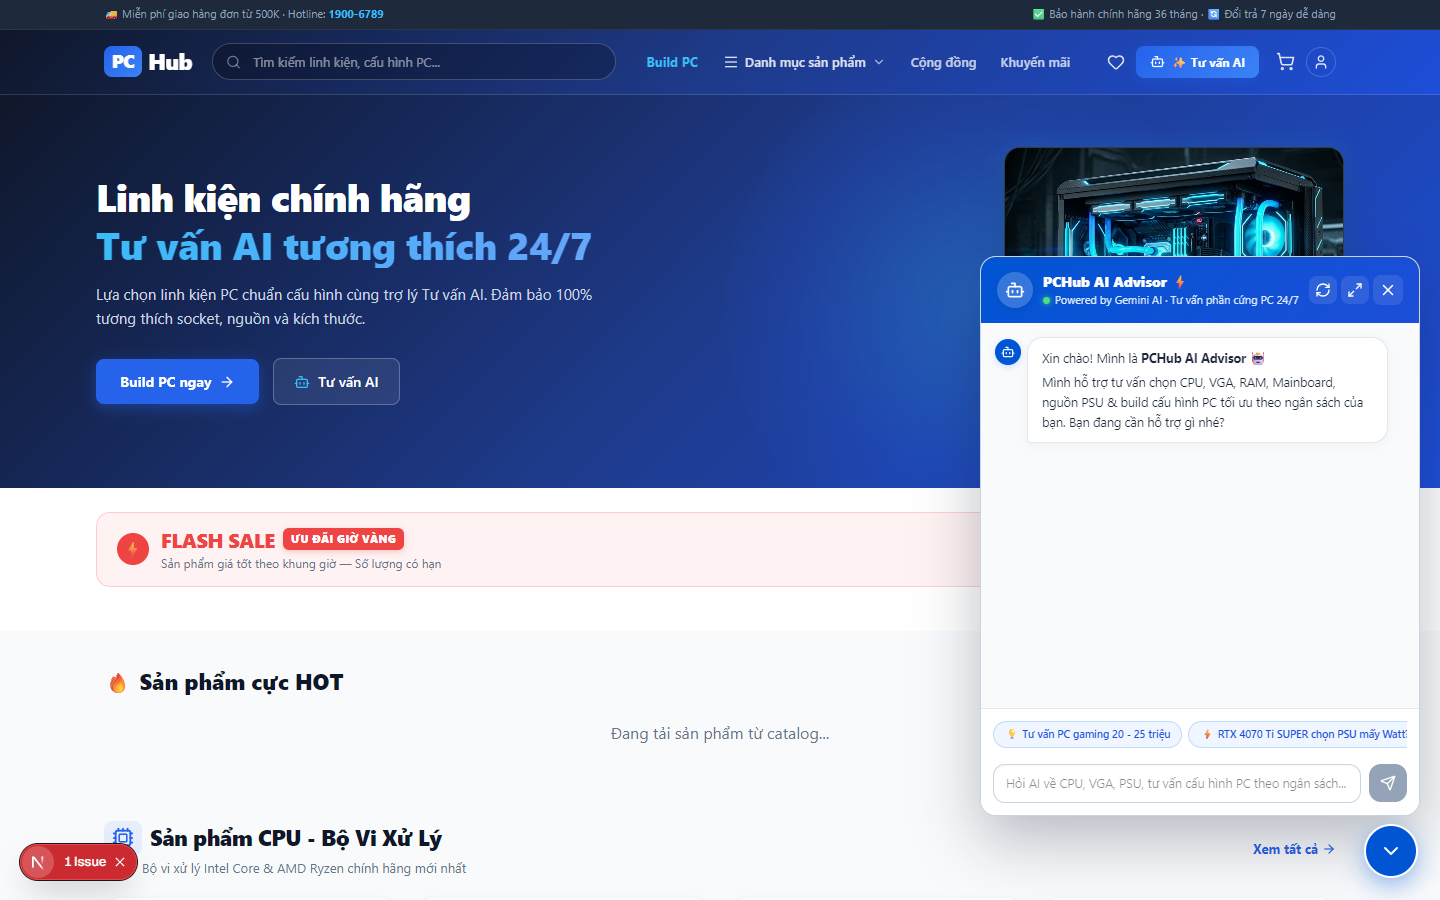
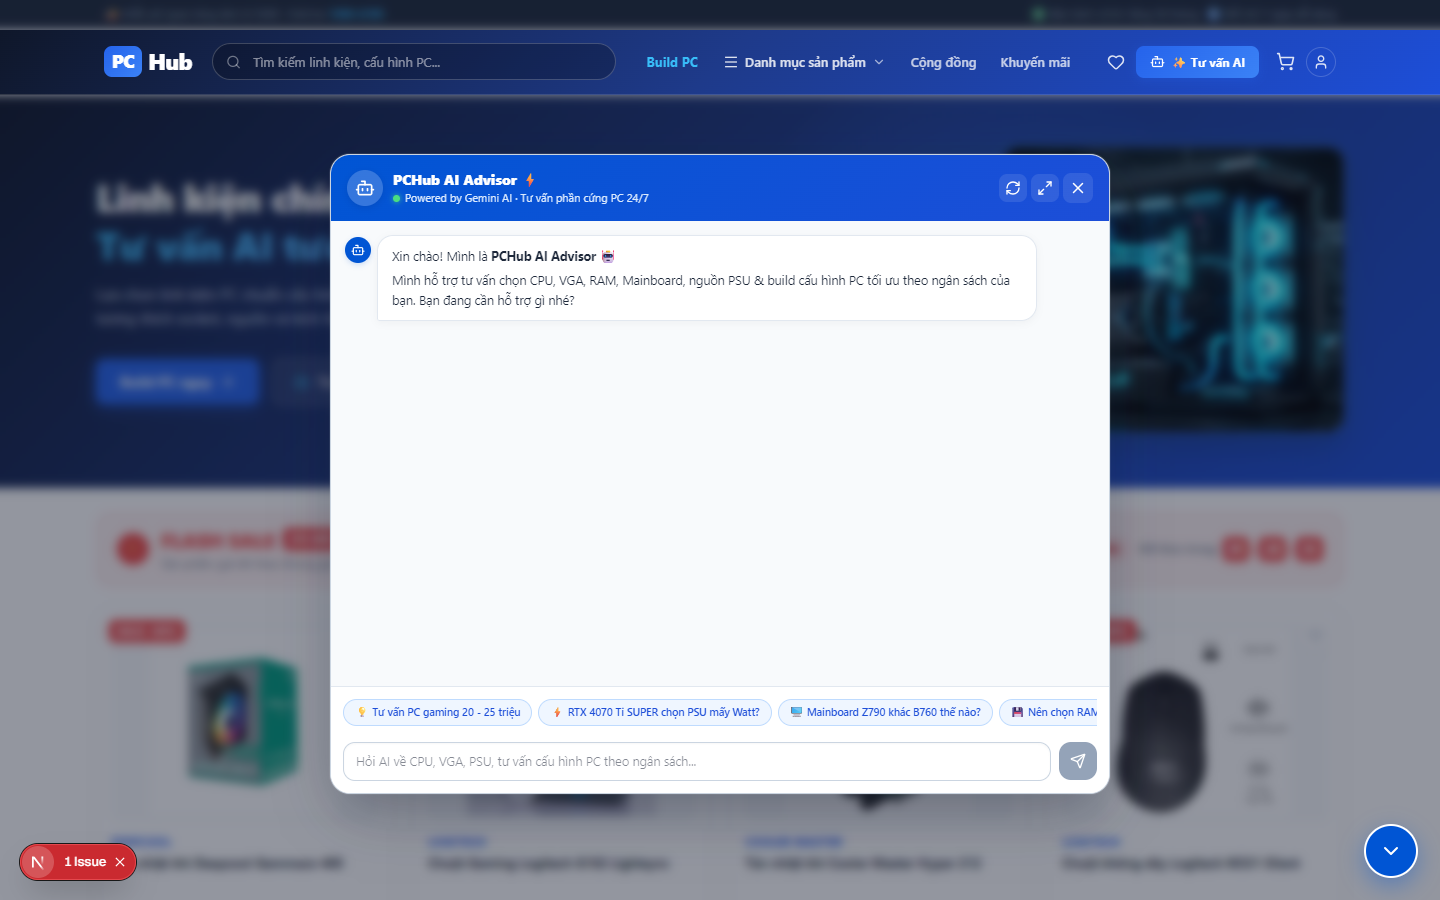
feat(chatbot): center popup modal with backdrop blur and preserve navbar visibility

diff --git a/src/components/layout/AIChatWidget.tsx b/src/components/layout/AIChatWidget.tsx
@@ -217,6 +217,11 @@ export default function AIChatWidget() {
     <>
       {open && (
         <div
+          onClick={() => {
+            if (!isFullscreen) {
+              setOpen(false);
+            }
+          }}
           style={
             isFullscreen
               ? {
@@ -227,7 +232,6 @@ export default function AIChatWidget() {
                   bottom: 0,
                   width: '100vw',
                   height: '100vh',
-                  maxHeight: '100vh',
                   zIndex: 99999,
                   background: '#f8fafc',
                   display: 'flex',
@@ -236,23 +240,47 @@ export default function AIChatWidget() {
                 }
               : {
                   position: 'fixed',
-                  right: '20px',
-                  bottom: '84px',
-                  width: 'min(440px, calc(100vw - 32px))',
-                  height: '560px',
-                  maxHeight: 'calc(100vh - 110px)',
-                  zIndex: 1000,
-                  background: '#ffffff',
-                  border: '1px solid #cbd5e1',
-                  borderRadius: '16px',
-                  overflow: 'hidden',
-                  boxShadow: '0 24px 60px rgba(15,23,42,.28)',
+                  top: 0,
+                  left: 0,
+                  right: 0,
+                  bottom: 0,
+                  zIndex: 999,
+                  background: 'rgba(15, 23, 42, 0.45)',
+                  backdropFilter: 'blur(5px)',
                   display: 'flex',
-                  flexDirection: 'column',
-                  animation: 'scaleUp 0.2s cubic-bezier(0.16, 1, 0.3, 1)',
+                  alignItems: 'center',
+                  justifyContent: 'center',
+                  padding: '16px',
+                  paddingTop: 'clamp(60px, 8vh, 90px)',
+                  paddingBottom: '24px',
+                  animation: 'fadeIn 0.2s ease-out',
                 }
           }
         >
+          <div
+            onClick={e => e.stopPropagation()}
+            style={
+              isFullscreen
+                ? {
+                    width: '100%',
+                    height: '100%',
+                    display: 'flex',
+                    flexDirection: 'column',
+                  }
+                : {
+                    width: 'min(780px, calc(100vw - 32px))',
+                    height: 'min(640px, calc(100vh - 120px))',
+                    background: '#ffffff',
+                    border: '1px solid #cbd5e1',
+                    borderRadius: '20px',
+                    overflow: 'hidden',
+                    boxShadow: '0 25px 60px -10px rgba(15, 23, 42, 0.35), 0 0 0 1px rgba(255,255,255,0.1)',
+                    display: 'flex',
+                    flexDirection: 'column',
+                    animation: 'scaleUp 0.25s cubic-bezier(0.16, 1, 0.3, 1)',
+                  }
+            }
+          >
           {/* Header */}
           <div
             style={{
@@ -632,7 +660,8 @@ export default function AIChatWidget() {
             </div>
           </div>
         </div>
-      )}
+      </div>
+    )}
 
       {/* Floating Toggle Icon */}
       <button
